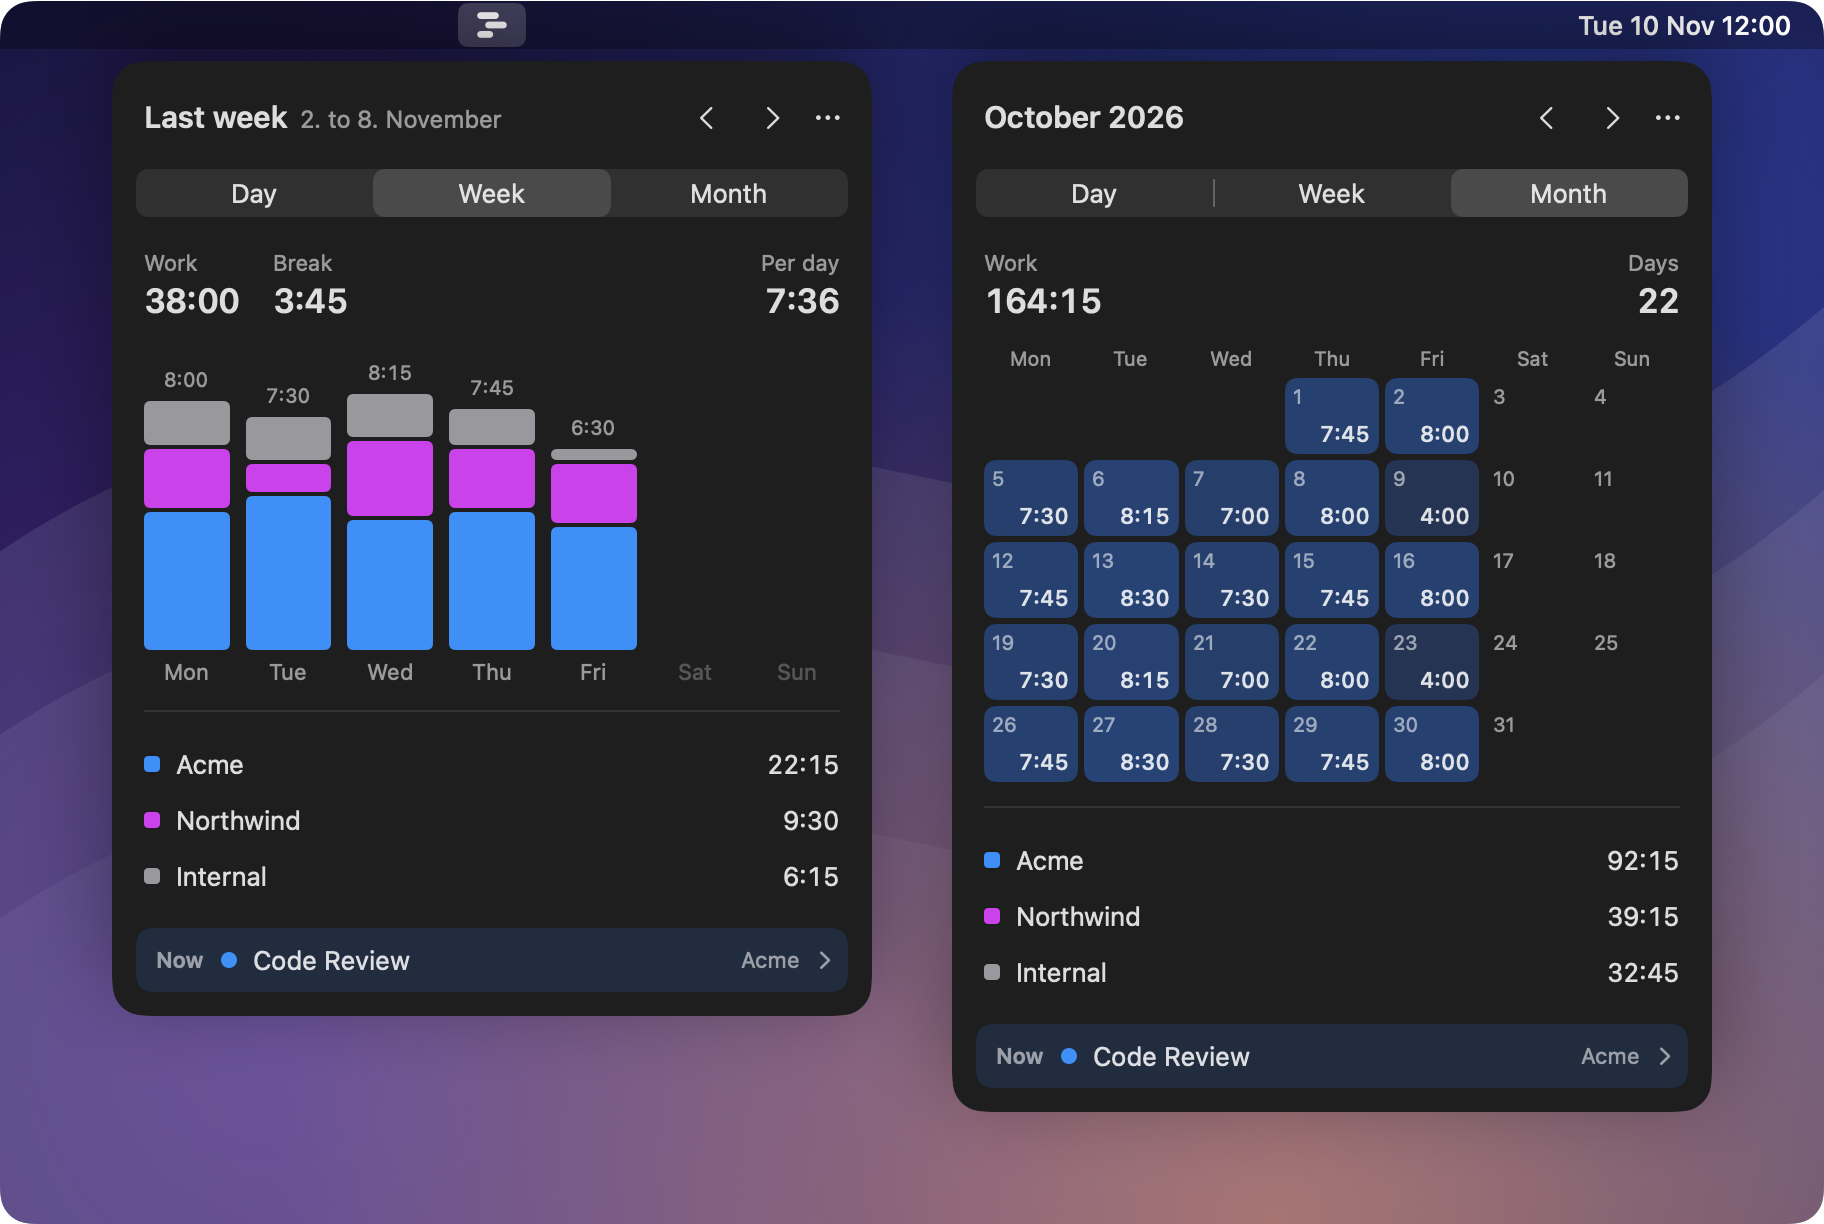
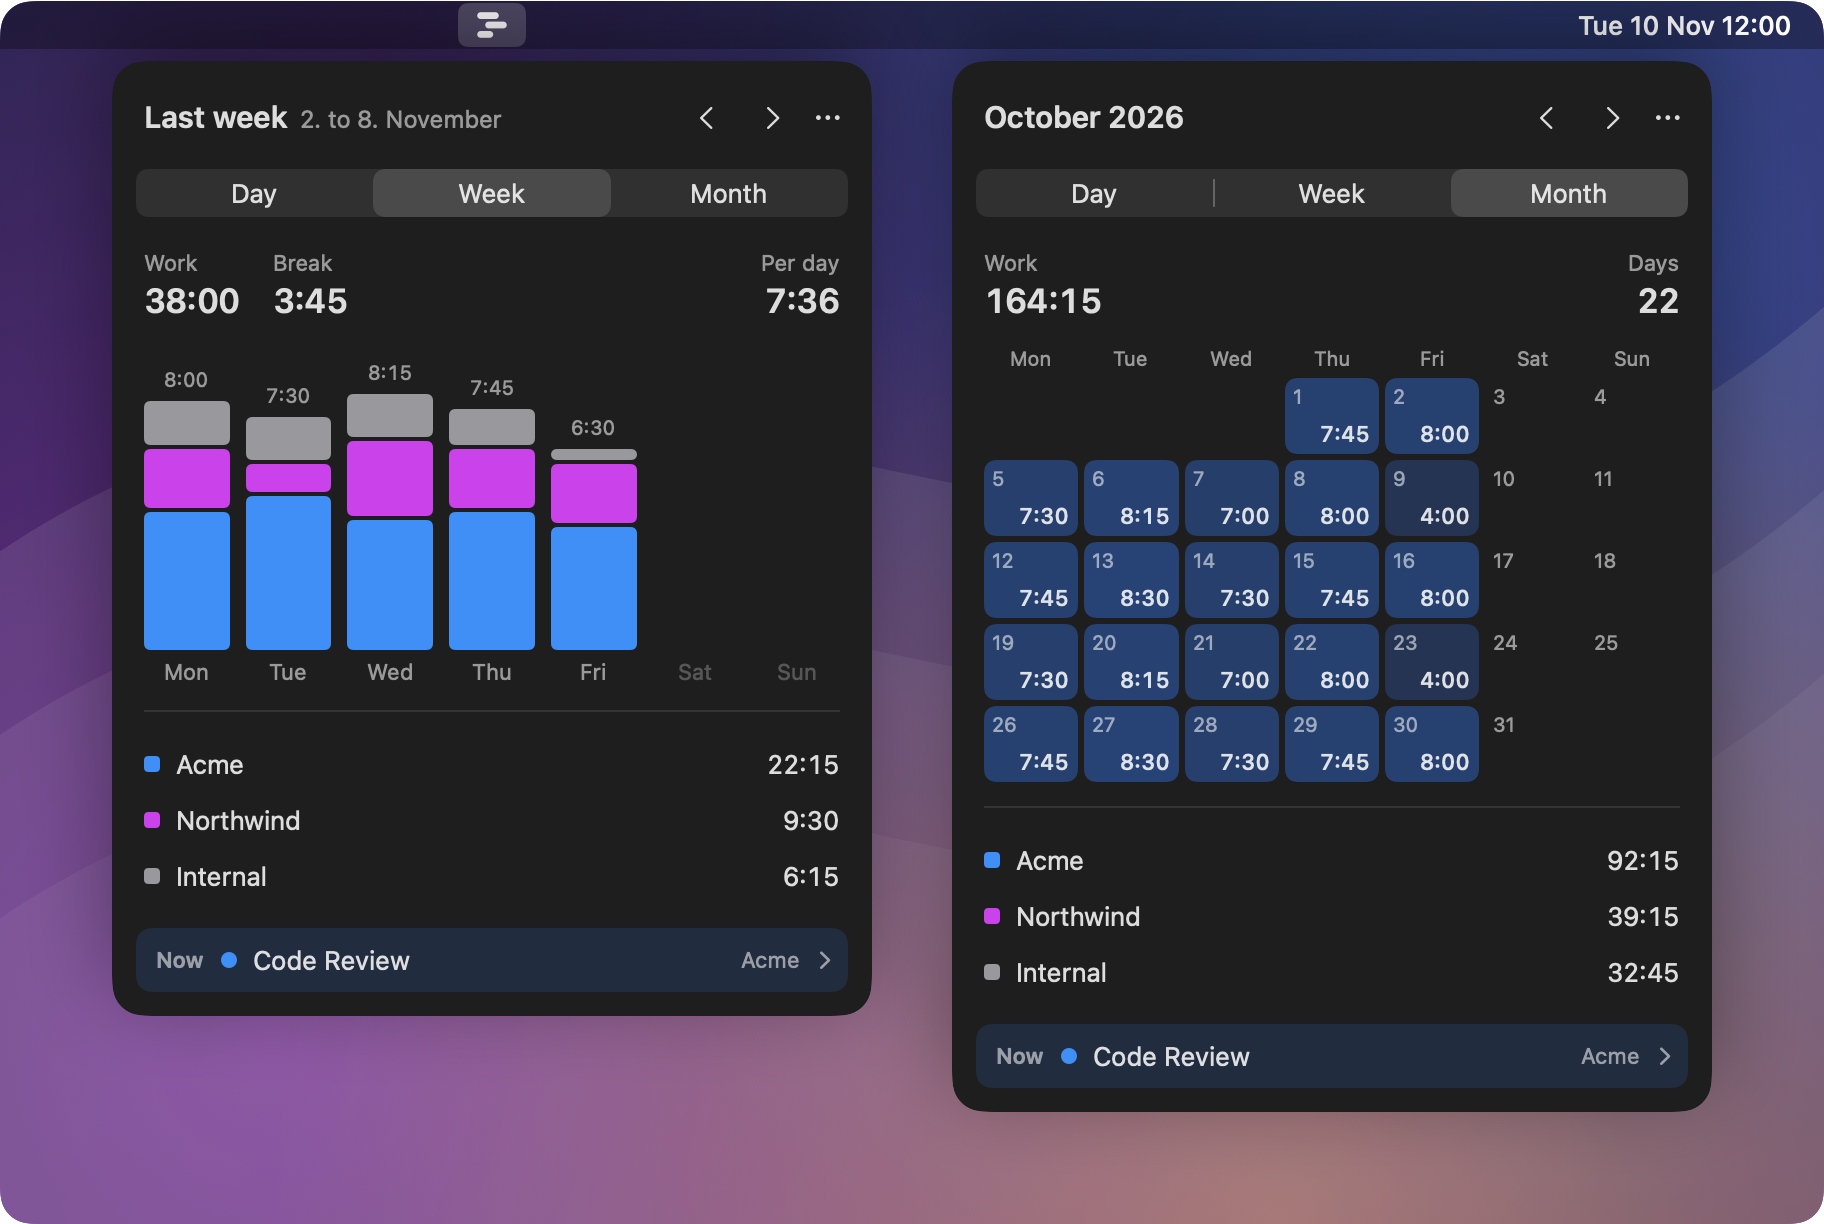
fix: draw the readme wallpaper from system colors

Changed region(s): [[0.0, 0.0621, 0.3438, 1.0]]

diff --git a/Sources/Maloche/Screenshots.swift b/Sources/Maloche/Screenshots.swift
@@ -473,22 +473,22 @@
                 context.fill(
                     Path(full),
                     with: .linearGradient(
-                        Gradient(colors: [
-                            Color(red: 0.05, green: 0.07, blue: 0.20), Color(red: 0.16, green: 0.08, blue: 0.30),
-                        ]),
+                        Gradient(colors: [Color(nsColor: .systemIndigo), Color(nsColor: .systemPurple)]),
                         startPoint: .zero, endPoint: CGPoint(x: size.width, y: size.height)))
+                // system colors darkened to night tones, the app defines no colors of its own
+                context.fill(Path(full), with: .color(.black.opacity(0.72)))
                 for (x, y, radius, color) in [
-                    (0.15, 0.85, 0.75, Color(red: 0.45, green: 0.20, blue: 0.75)),
-                    (0.85, 0.20, 0.65, Color(red: 0.15, green: 0.35, blue: 0.85)),
-                    (0.70, 1.00, 0.55, Color(red: 0.95, green: 0.45, blue: 0.20)),
+                    (0.15, 0.85, 0.75, NSColor.systemPurple),
+                    (0.85, 0.20, 0.65, .systemBlue),
+                    (0.70, 1.00, 0.55, .systemOrange),
                 ] {
                     let center = CGPoint(x: size.width * x, y: size.height * y)
                     let reach = max(size.width, size.height) * radius
                     context.fill(
                         Path(full),
                         with: .radialGradient(
-                            Gradient(colors: [color.opacity(0.55), color.opacity(0)]), center: center, startRadius: 0,
-                            endRadius: reach))
+                            Gradient(colors: [Color(nsColor: color).opacity(0.45), Color(nsColor: color).opacity(0)]),
+                            center: center, startRadius: 0, endRadius: reach))
                 }
                 for (index, opacity) in [0.10, 0.07, 0.05].enumerated() {
                     let base = size.height * (0.45 + 0.15 * Double(index))
